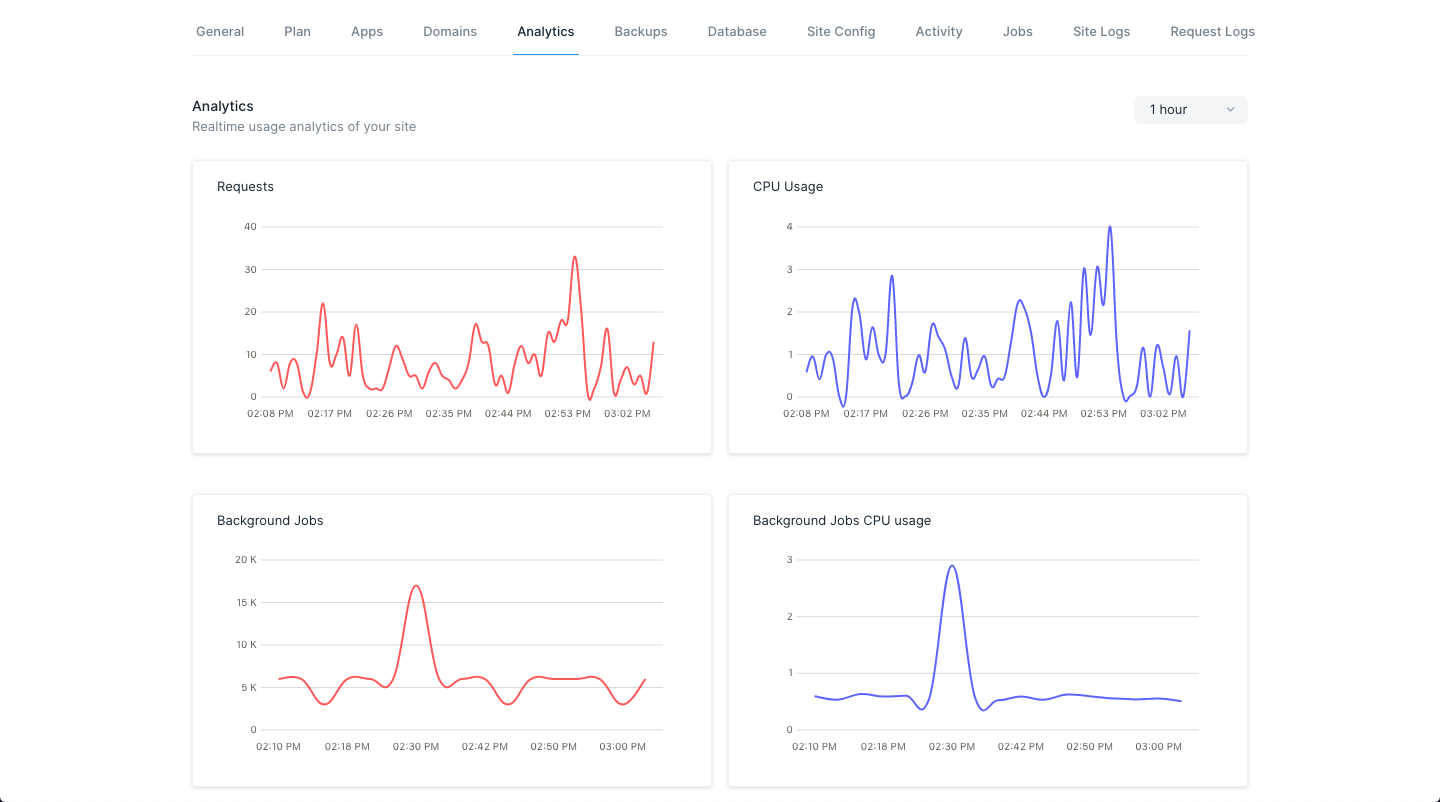
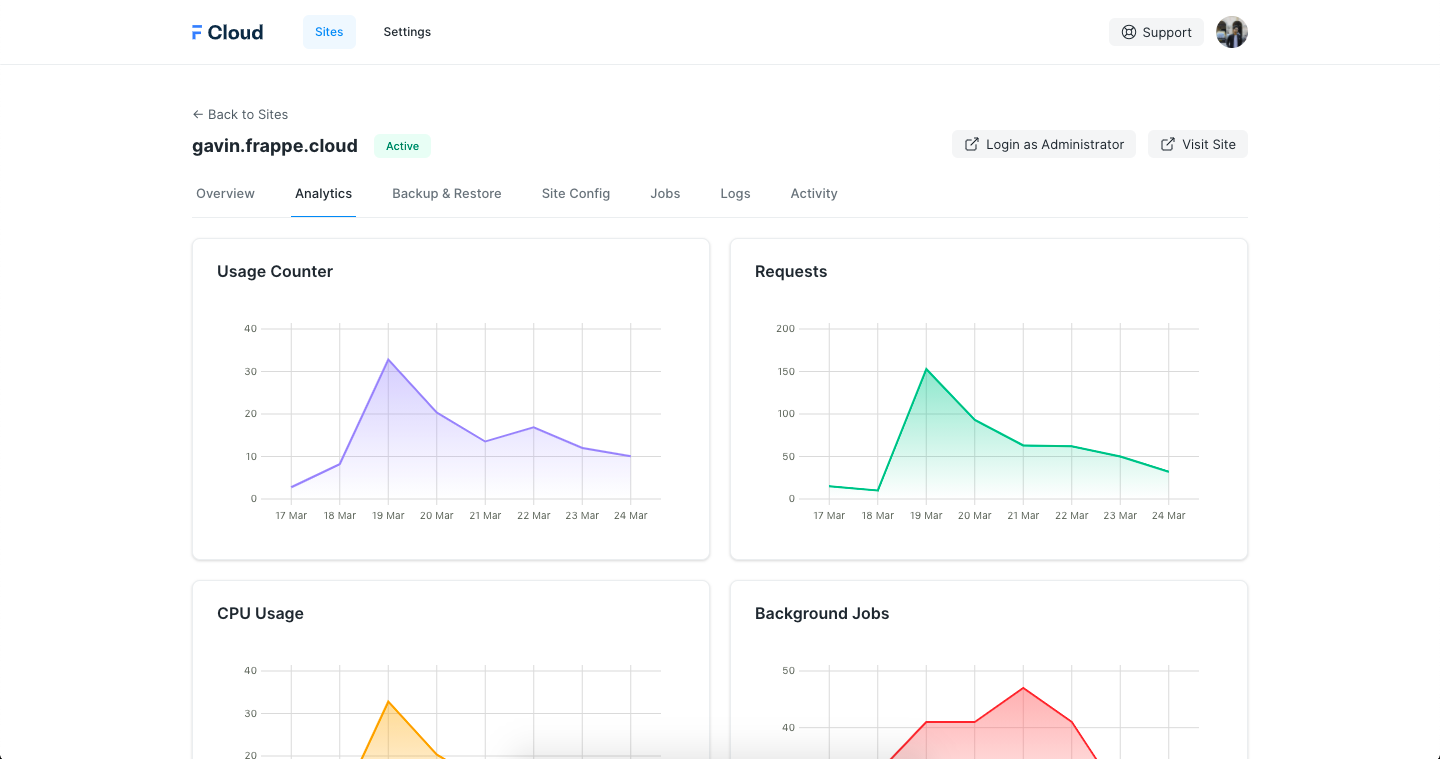
docs: Refreshed FC user docs
* Added billing cycle docs
* Updated dashboard docs
* Updated screens

diff --git a/press/www/docs/sites/migrate-an-existing-site.md b/press/www/docs/sites/migrate-an-existing-site.md
@@ -7,9 +7,14 @@ title: Restore an existing site - Sites
 Restore an existing site by uploading backup files or by using bench from your
 local setup or from your cloud provider.
 
-> Note: If your database file has size larger 500MB, site restoration may take
-> some time. Fill out [this form](https://frappecloud.com/migration-request) to
-> schedule a site migration request with us.
+If your compressed database file has size larger than 500MB, site restoration
+may take some time. Fill out [this
+form](https://frappecloud.com/migration-request) to schedule a site migration
+request with us.
+
+> While migrating existing sites using the Frappe Cloud dashboard, some users
+> miss the step to restore the site config details. If you're using the bench
+> command, you won't have to worry about this.
 
 ## Restore from Backup Files
 
@@ -20,19 +25,20 @@ from backup files.
    backup](https://docs.erpnext.com/docs/user/manual/en/setting-up/data/download-backup)
    files of your site.
 1. You must have 3 files that should be named like the following:
-   - 20200817\_125915-sitename-database.sql.gz (Database)
-   - 20200817\_125915-sitename-files.tar (Public Files)
-   - 20200817\_125915-sitename-private-files.tar (Private Files)
+   - 20210817\_125915-sitename-database.sql.gz (Database)
+   - 20210817\_125915-sitename-files.tar (Public Files)
+   - 20210817\_125915-sitename-private-files.tar (Private Files)
 1. Click on **New Site** from the Sites tab in the Frappe Cloud Dashboard.
 1. Fill out the subdomain and select the version.
 1. Click on **Create Site from Backup**.
 1. Now, upload each file you got in Step 2 in their corresponding upload boxes.
-2. Select a Plan.
-3. Click on **Create Site**.
+1. Select a Plan.
+1. Click on **Create Site**.
+1. When the site reaches Active state, you will now have to restore your [site
+   config's details](/docs/sites/site-config).
 
-> Note: This method is ideal if your backup files size is less 200MB. If you
-> have larger backup files, you should use the `bench` command to migrate your
-> site.
+> This method is ideal if your backup file's size is less 200MB. If you have
+> larger backup files, you should use the `bench` command to migrate your site.
 
 ## Migrate using Bench
 
@@ -44,12 +50,17 @@ bench --site {name} migrate-to frappecloud.com
 ```
 
 You can run this command even from your local setup. If your site is hosted on a
-cloud provider like Digital Ocean or Amazon AWS, you must ssh into your server,
+cloud provider like Digital Ocean or Amazon AWS, you must SSH into your server,
 and run this command.
 
-> **Note**: This method will work only if your sites are on Version 11 or
-> greater. If you are on an older version or this command didn't work for you,
-> you can try the Python Script method explained later.
+The bench command provides a form similar to the dashboard UI. It's probably the
+easiest way to migrate your site to Frappe Cloud.
+
+[![bench migrate-to command](/assets/press/images/docs/bench-migrate-to.png)]((/assets/press/images/docs/bench-migrate-to.png))
+
+> This method will work only if your sites are on Version 11 or greater. If you
+> are on an older version or this command didn't work for you, you can try the
+> Python Script method explained later.
 
 ## Migrate using Python Script
 

diff --git a/press/www/docs/billing/billing-cycle.md b/press/www/docs/billing/billing-cycle.md
@@ -1,0 +1,70 @@
+---
+title: Billing Cycle - Billing
+---
+
+# Billing Cycle
+
+Overview of Frappe Cloud's Billing Process
+
+Frappe Cloud billing cycles are monthly. Each site is microbilled on a daily
+basis. When you select a plan, the monthly amount is divided by the number of
+days in the current calendar month. You are charged based on the number of days
+your site remains active at the end of the month.
+
+[![Billing Dashboard](/assets/press/images/docs/account-billing.png)](/assets/press/images/docs/account-billing.png)
+
+You can access and update your billing information from
+[/dashboard/account/billing](/dashboard/account/billing). The dashboard also
+shows information regarding the current usage from all your active sites.
+
+> We finalize invoices on **the last day of each month at 6 PM IST**. Sites
+created after this point will be a part of next month's billing cycle.
+
+## Use Cases
+
+Here's an attempt to explain the process by considering a few use cases:
+
+### Single plan throughout the calendar month
+
+When you select the `$100` plan for your site `raftel.frappe.cloud`, every day
+your site remains active, `$3.33` is accrued to your monthly usage in case of a
+30 day month. For the month of April, the estimate would look something like
+
+| - | Base Plan | No. of Days | Rate | Total |
+| --- | ----- | ------------ | -------------- | --------------- |
+| | $100 | 30 | $3.33/day | $99.9 |
+| | | | | **$99.9** |
+
+This rate may go to `$3.23` in case of a 31 day month or `$3.57` in case of a 28
+day month. This means that you are charged no more than `$100` for hosting your
+site each month. For February 2024 (leap year), this would look something like
+
+| - | Base Plan | No. of Days | Rate | Total |
+| --- | ----- | ------------ | -------------- | --------------- |
+| | $100 | 29 | $3.45/day | $100.05 |
+| | | | | **$100.05** |
+
+### Multiple plans throughout the calendar month
+
+Another instance of hosting a site `laugh-tale.frappe.cloud` on `$200` plan.
+After 15 days, you need more CPU time and decide to upgrade to plan `$500`. For
+a 31 day month, you get charged `$354.84` in total. Here's the break up.
+
+| - | Base Plan | No. of Days | Rate | Total |
+| --- | ----- | ------------ | -------------- | --------------- |
+| | $200 | 15 | $6.45/day | $96.77 |
+| | $500 | 16 | $16.13/day | $258.07 |
+| | | | | **$354.84** |
+
+### Site dropped in the middle of the month
+
+If you drop your site `arabasta.frappe.cloud` 4 days into the month, you will be
+charged for those 4 days.
+
+| - | Base Plan | No. of Days | Rate | Total |
+| --- | ----- | ------------ | -------------- | --------------- |
+| | $200 | 4 | $6.45/day | $25.8 |
+| | | | | **$25.8** |
+
+> Even if you might drop all your sites mid-way, you will receive the invoice at
+> the end of the month.

diff --git a/press/www/docs/sites/creating-a-new-site.md b/press/www/docs/sites/creating-a-new-site.md
@@ -4,24 +4,40 @@ title: Creating a new site - Sites
 
 # Creating a new site
 
+Simplest guide to create a new site on Frappe Cloud
+
+
 1. From the Sites tab on the dashboard, click on **New Site**.
 1. Choose a unique hostname for your site. Subdomain could be 5 to 32 characters
    long and contain lowercase alphabets, numbers, and hyphens. Subdomain can not
    start or end with hyphens.
+
+  [![Choosing your subdomain](/assets/press/images/docs/new-site-0.png)](/assets/press/images/docs/new-site-0.png)
+
 1. From the dropdown, select the major version for your site. We currently offer
    Version 12, Version 13 and Nightly (bleeding edge) versions.
 1. Choose the apps to install on your site. The Frappe app will always be
    installed on your site by default. You can install more apps after your site
    is created.
-1. If you want to migrate an existing site, see [Migrate an existing site](/docs/migrate-an-existing-site).
+
+  [![Selecting apps and versions](/assets/press/images/docs/new-site-1.png)](/assets/press/images/docs/new-site-1.png)
+
+1. If you want to migrate an existing site, see [Migrate an existing
+   site](/docs/migrate-an-existing-site).
+
+  ![Uploading backups](/assets/press/images/docs/new-site-2.png)
+
 1. Choose an appropriate plan for your site. For more details visit our [pricing
    page](/pricing).
+
+  [![Select a plan for your site](/assets/press/images/docs/new-site-3.png)](/assets/press/images/docs/new-site-3.png)
+
 1. It will take a few seconds for site creation depending on the apps you have
    chosen and the size of your backup files.
 1. Click on Visit Site at the top of the page to access your site.
-1. After site creation you will see a message, you can proceed to
-   complete the setup wizard by clicking on login. You must log in and complete
-   the setup wizard on your site. Analytics will be collected only after the
-   setup is complete.
+1. After site creation you will see a message, you can proceed to complete the
+   setup wizard by clicking on login. You must log in and complete the setup
+   wizard on your site. Analytics will be collected only after the setup is
+   complete.
 
 > Note: All sites are only available on HTTPS.

diff --git a/press/www/docs/sites/backups.md b/press/www/docs/sites/backups.md
@@ -12,7 +12,7 @@ On the site page, go to the **Backups** tab. Here you will see the list of
 backups that were taken of your site. Every backup consists of a database
 backup, public files backup and private files backup.
 
-[![Offsite Backups](/assets/press/images/docs/backups.png)](/assets/press/images/docs/backups.png)
+[![Offsite Backups](/assets/press/images/docs/site-backups.png)](/assets/press/images/docs/site-backups.png)
 
 ## Offsite Backups
 
@@ -44,9 +44,9 @@ With the current scheme, for every day we store:
 
 If the current day is Jan 13, then the backups available will be like so:
 
-![Offsite Backups](/assets/press/images/docs/calendar.png)
+[![Offsite Backups - Calendar](/assets/press/images/docs/calendar.png)](/assets/press/images/docs/calendar.png)
 
-(Monthly and yearly backups before December 2020 not shown in picture)  
+(Monthly and yearly backups before December 2020 not shown in picture)
 
 - Weekly backups are taken every Sunday
 - Monthly backups taken every 1st day of the month

diff --git a/press/www/docs/sites/custom-domains.md b/press/www/docs/sites/custom-domains.md
@@ -6,7 +6,7 @@ title: Custom Domains - Sites
 
 Frappe Cloud allows you to map custom domains that you own in a few simple steps.
 
-1. From your site page, go to **Domains** tab.
+1. From your site overview page, go to **Domains** card.
 2. Click on Add Domain.
 3. Enter the custom domain.
 4. Add a CNAME record to your domain pointing to your site from the dashboard of
@@ -18,7 +18,8 @@ Frappe Cloud allows you to map custom domains that you own in a few simple steps
 
    For the instructions to add such a record please contact your domain provider.
 
-   [![Custom Domains](/assets/press/images/docs/custom-domains.png)](/assets/press/images/docs/custom-domains.png)
+   [![Custom Domains](/assets/press/images/docs/site-domain.png)](/assets/press/images/docs/site-domain.png)
+
 5. Click on Verify DNS.
 6. If we can verify that you have correctly added the CNAME record, then you
    will see Add Domain button. Click on Add Domain.

diff --git a/press/www/docs/sites/delete-site.md b/press/www/docs/sites/delete-site.md
@@ -8,10 +8,10 @@ Deleting a site will archive the site immediately, so you cannot access it's
 backup files after that. So if you want to restore it, make sure to take a
 backup and download it.
 
-1. Go to the Drop Site tab.
+1. Go to the Site Overview tab and find the **Sites Info** card.
 1. Be careful when dropping sites since you can NOT recover a site once you drop it.
 1. Click on Drop Site.
 1. Type the site name to confirm this action.
 1. Click on Drop Site.
 
-[![Delete Site](/assets/press/images/docs/drop-site.png)](/assets/press/images/docs/drop-site.png)
+[![Delete Site](/assets/press/images/docs/site-drop.png)](/assets/press/images/docs/site-drop.png)

diff --git a/press/www/docs/sites/monitoring.md b/press/www/docs/sites/monitoring.md
@@ -25,6 +25,7 @@ The **Analytics** tabs shows six charts:
 Analytics are only available after Setup Wizard is completed. Uptime status is
 collected every minute.
 
+<!--
 ## Request Logs
 
 The **Request Logs** tab shows every web request that was made to your site. You
@@ -33,6 +34,7 @@ where the request was made, the CPU Time it took to to serve that request and
 the response length.
 
 [![Request Logs](/assets/press/images/docs/request-logs.png)](/assets/press/images/docs/request-logs.png)
+-->
 
 ## Site Logs
 

diff --git a/press/www/docs/sites/activity.md b/press/www/docs/sites/activity.md
@@ -1,0 +1,11 @@
+---
+title: Activity - Sites
+---
+
+# Activity
+
+Frappe Cloud maintains a log of all actions taken on your sites.
+
+[![Site Activity](/assets/press/images/docs/site-activity.png)](/assets/press/images/docs/site-activity.png)
+
+All actions taken on the sites from the dashboard or triggered directly by the system are logged in Frappe Cloud. This log may be viewed from your site's Activity tab.

diff --git a/press/www/docs/sites/jobs.md b/press/www/docs/sites/jobs.md
@@ -19,6 +19,6 @@ Jobs show a history of actions performed on your site.
    stuck, or has failed.
 1. Some successful jobs will show the command line output when the job was run.
 
-   [![Jobs](/assets/press/images/docs/jobs.png)](/assets/press/images/docs/jobs.png)
+   [![Jobs](/assets/press/images/docs/site-jobs.png)](/assets/press/images/docs/site-jobs.png)
 3. Some failed jobs will show a trace.
 

diff --git a/press/www/docs/sites/site-config.md b/press/www/docs/sites/site-config.md
@@ -22,4 +22,4 @@ For e.g.
 1. Enter values in the corresponding input field.
 1. Click on **Update Configuration**.
 
-[![Offsite Backups](/assets/press/images/docs/site-config.png)](/assets/press/images/docs/site-config.png)
+[![Site Config](/assets/press/images/docs/site-config.png)](/assets/press/images/docs/site-config.png)
